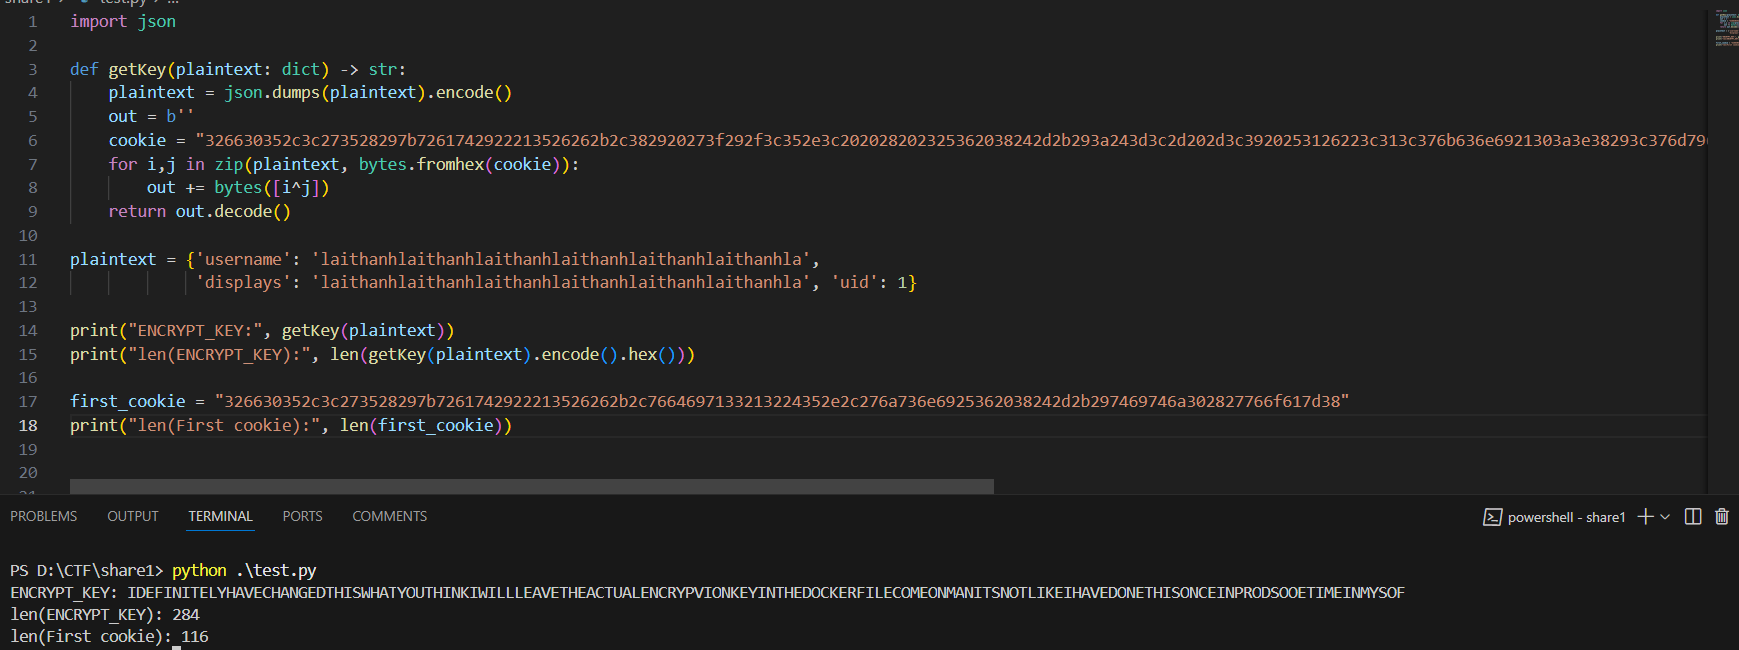
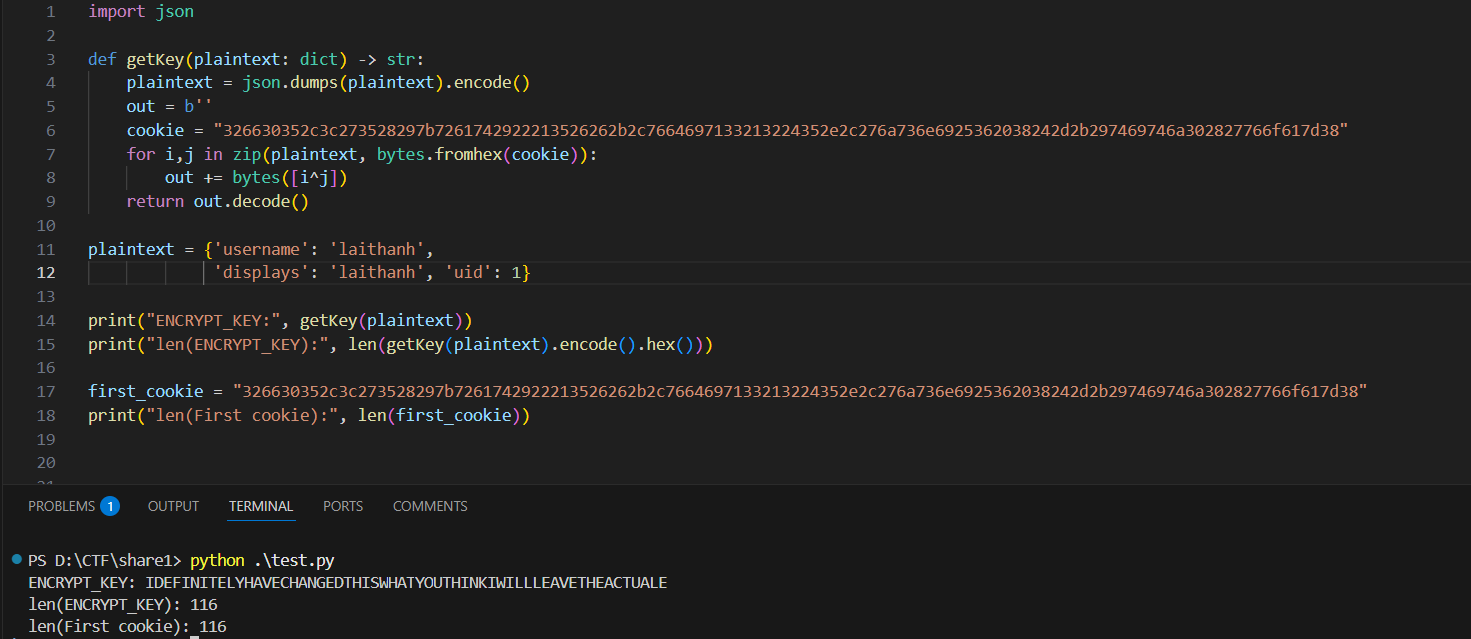
update

diff --git a/post/web_exploitation/markdown/post9.md b/post/web_exploitation/markdown/post9.md
@@ -90,17 +90,13 @@
 
 ![alt text](/thanhlai/post/web_exploitation/image/post9/image-29.png)
 
-<p>Tuy nhiên, mới chỉ leak được 1 phần giá trị -> Có vẻ cần phải làm cho dictionary dài ra thì mới leak được toàn bộ key. Trường username và displayname đều được phép tối đa là 50 kí tự.</p>
+<p>Tuy nhiên, mới chỉ leak được 1 phần giá trị. Nhưng vẫn cần kiểm tra lại độ dài có 2 giá trị dùng để XOR vì hàm encode và decode đều XOR theo từng byte nên độ dài của khóa chỉ cần lớn hơn hoặc bằng độ dài của cookie là kết quả vẫn chính xác.</p>
 
 ![alt text](/thanhlai/post/web_exploitation/image/post9/image-210.png)
 
-<p>Khi thử tối đa 50 kí tự cho cả 2 trường và thay đổi cookie mới thì khi so sánh vẫn chưa leak ra hết được. Tuy nhiên, vì hàm encode và decode đều XOR theo từng byte nên độ dài của khóa chỉ cần lớn hơn hoặc bằng độ dài của cookie là kết quả vẫn chính xác.</p>
+<p>Khi so sánh kích thước của ENCRYPT_KEY và cookie thì kết quả là bằng nhau. Giảm hai kí tự của displayname để kích thước nhỏ lại một tí để trừ trường hợp kích thước chuỗi json lớn hơn ENCRYPT_KEY.</p>
 
 ![alt text](/thanhlai/post/web_exploitation/image/post9/image-2.png)
-
-<p>Thử decode cookie hiện tại, uid hiện tại đang là 1.</p>
-
-![alt text](/thanhlai/post/web_exploitation/image/post9/image-26.png)
 
 <p>Thay đổi uid thành 0 và encode lại là xong.</p>
 
